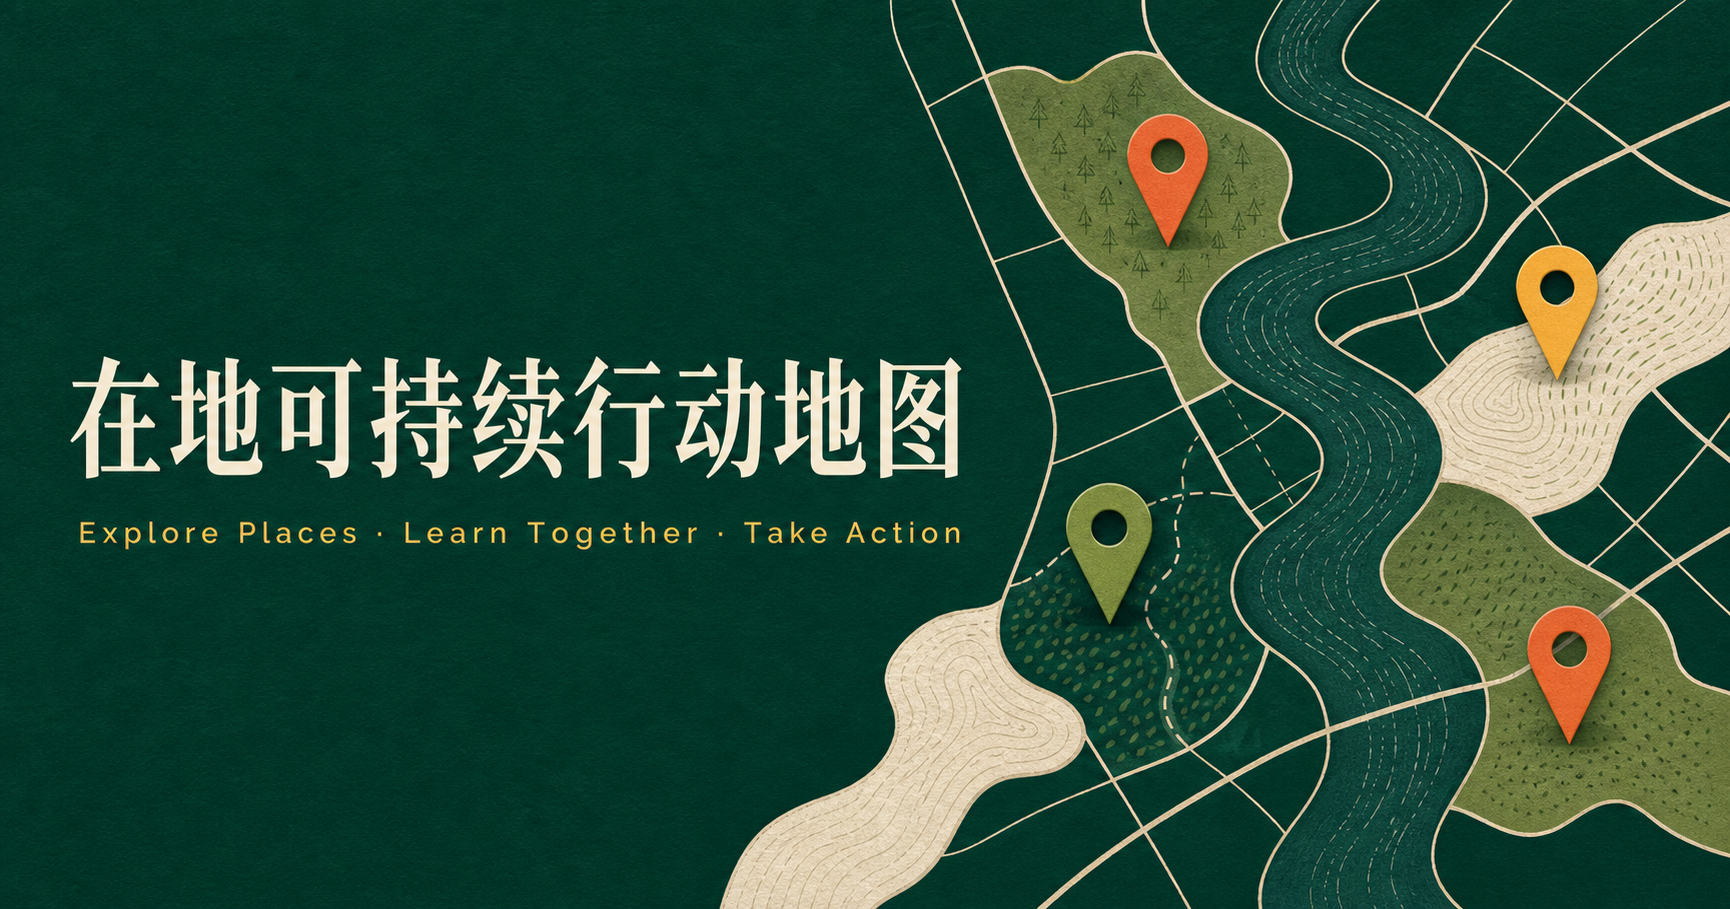
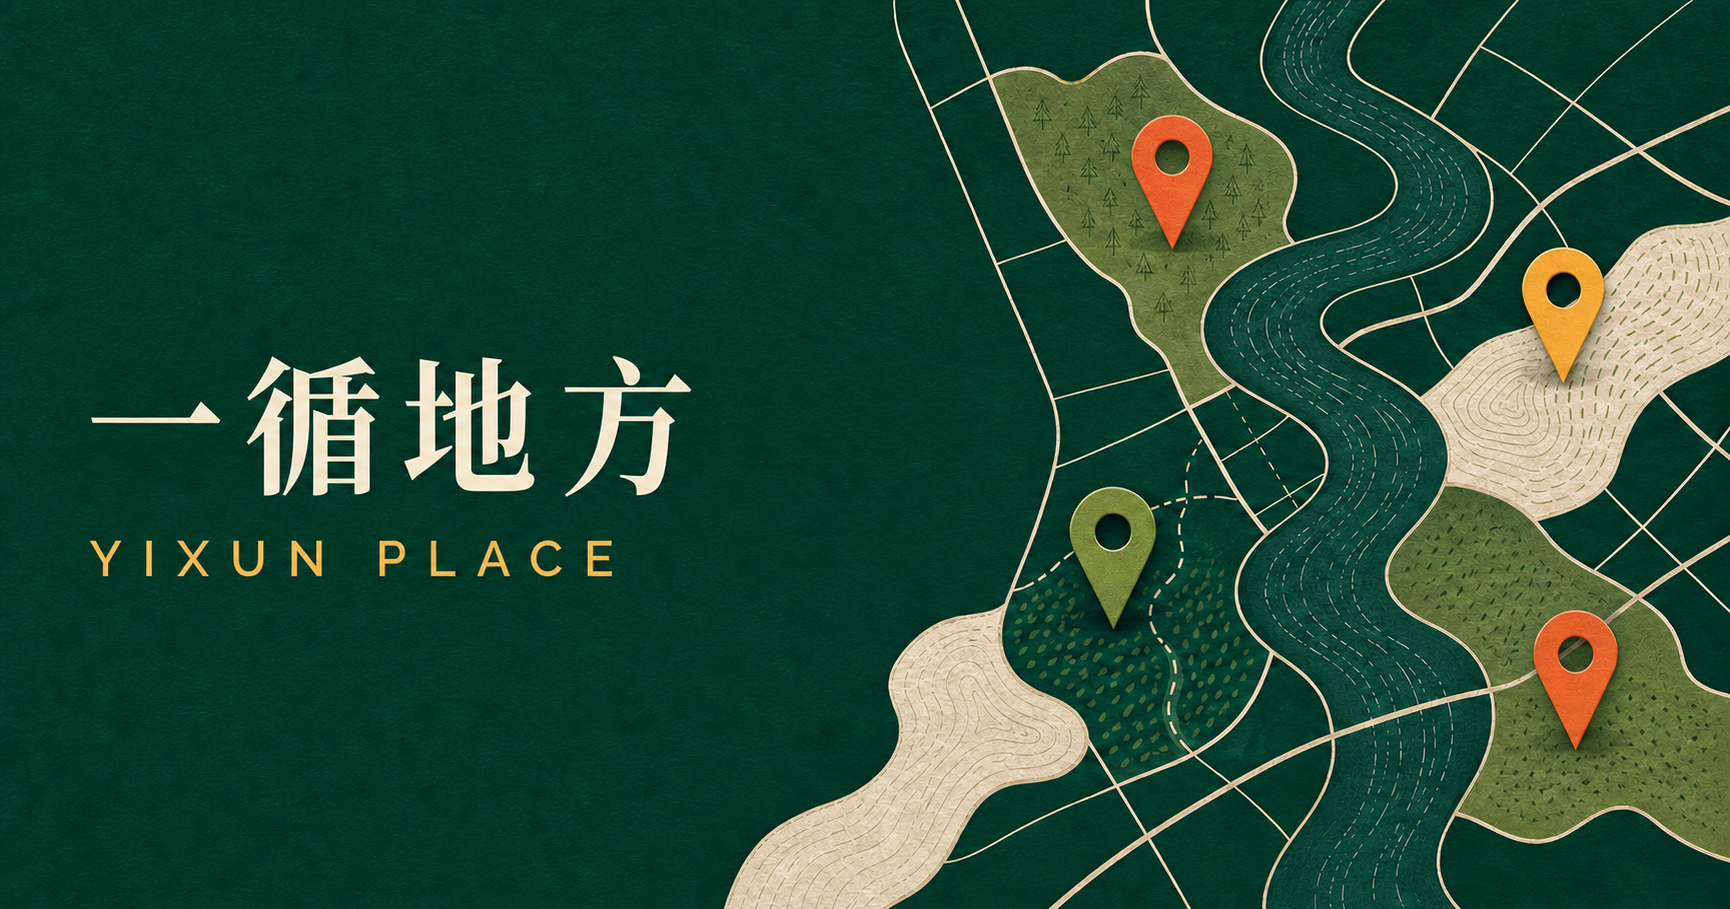
Rename brand to YIXUN PLACE

diff --git a/app/page.tsx b/app/page.tsx
@@ -129,8 +129,8 @@ export default function Home() {
             <b />
           </span>
           <span>
-            <strong>在地可持续行动地图</strong>
-            <small>LOCAL ACTION MAP</small>
+            <strong>一循地方</strong>
+            <small>YIXUN PLACE</small>
           </span>
         </a>
 
@@ -450,18 +450,18 @@ export default function Home() {
           <div className="footer-brand">
             <a className="brand" href="#top">
               <span className="brand-mark inverse" aria-hidden="true"><i /><b /></span>
-              <span><strong>在地可持续行动地图</strong><small>LOCAL ACTION MAP</small></span>
+              <span><strong>一循地方</strong><small>YIXUN PLACE</small></span>
             </a>
             <p>探索地方 · 共同学习 · 采取行动</p>
           </div>
           <div className="footer-links">
             <div><strong>参与</strong><a href="#places">探索地点</a><a href="#workshops">工作坊</a><a href="#learning">线上微课</a></div>
             <div><strong>关于</strong><a href="#impact">项目成果</a><button onClick={() => setToast("合作咨询入口将在下一版本开放")}>机构合作</button><button onClick={() => setToast("志愿者招募即将开放")}>成为志愿者</button></div>
-            <div><strong>联系</strong><span>hello@localaction.map</span><span>上海 · 中国</span></div>
+            <div><strong>联系</strong><span>hello@yixun.place</span><span>上海 · 中国</span></div>
           </div>
         </div>
         <div className="footer-bottom section-shell">
-          <span>© 2026 Local Action Map</span>
+          <span>© 2026 YIXUN PLACE</span>
           <span>为更可持续的地方共同学习</span>
         </div>
       </footer>

diff --git a/app/layout.tsx b/app/layout.tsx
@@ -7,7 +7,7 @@ export async function generateMetadata(): Promise<Metadata> {
   const host = requestHeaders.get("x-forwarded-host") ?? requestHeaders.get("host") ?? "localhost:3000";
   const protocol = requestHeaders.get("x-forwarded-proto") ?? (host.startsWith("localhost") ? "http" : "https");
   const origin = `${protocol}://${host}`;
-  const title = "在地可持续行动地图";
+  const title = "一循地方 · YIXUN PLACE";
   const description = "探索真实地点，共同学习可持续发展，并把知识变成发生在身边的行动。";
 
   return {
